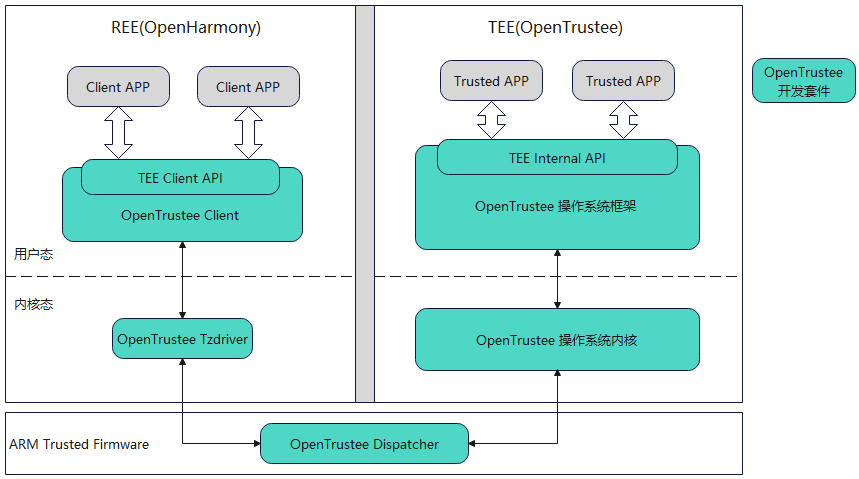
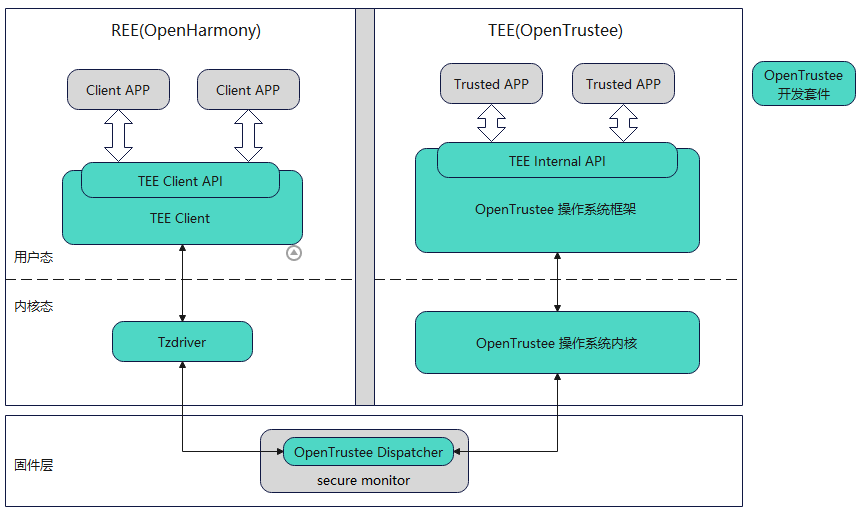
add opentrustee overview

diff --git a/docs/opentrustee-guidelines/overview-of-opentrustee.md b/docs/opentrustee-guidelines/overview-of-opentrustee.md
@@ -2,7 +2,7 @@
 
 ## 概述
 
-OpenTrustee是一个部署在可信执行环境（TEE）中的安全操作系统。ARM架构中的TrustZone技术通过CPU层面的硬件设计，支持创建安全的可信执行环境。基于ARM TrustZone技术，我们可以在设备上同时运行OpenHarmony和OpenTrustee两个系统，这两个系统彼此隔离。基于这种系统隔离带来的安全性，OpenTrustee可以为设备的机密数据提供保护。
+OpenTrustee提供了一个可信执行环境（TEE），运行在受硬件隔离的安全区域中，与常规操作系统如OpenHarmony同时运行但互相隔离，OpenTrustee比常规操作系统拥有更高的安全性，可以为设备上的机密数据提供保护。
 
 ## **应用场景**
 
@@ -37,28 +37,28 @@ OpenTrustee是一套完整的TEE解决方案，包含多个部件，系统架构
 
 - 部署在REE侧内核中的驱动，支持REE和TEE进行通信。
 
-#### 操作系统框架
+#### OpenTrustee 操作系统框架
 
 - 为TA提供符合GP TEE标准的TEE Internal API；
 - 提供TA运行管理、驱动运行管理等框架基础服务；
 - 提供安全存储、加解密等安全能力。
 
-#### 操作系统内核
+#### OpenTrustee 操作系统内核
 
 - ChCore微内核，提供IPC/进程管理/内存管理/调度/中断管理/REE和TEE切换等基础内核功能。
 
-#### 开发套件
+#### OpenTrustee 开发套件
 
-- 包括TA开发套件和驱动开发套件两部分，提供API头文件、编译框架、签名脚本、demo样例等，支持高效开发TA和驱动。
+- 提供了TA开发套件，包含TA API头文件、编译框架、签名脚本、demo样例等，支持高效开发TA。
 
-#### Dispatcher
+#### OpenTrustee Dispatcher
 
-- 部署在ATF中，在REE和TEE之间交互时完成两个世界上下文的切换。
+- 在REE和TEE之间交互时完成两个世界上下文的切换。
 
 ## 约束
 
 - 支持的系统类型：支持OpenHarmony定义的标准系统，暂不支持轻量系统和小型系统；
-- 对硬件的要求：CPU需要支持ARM TrustZone机制，安全内存至少需要28M；
+- 对硬件的要求：目前只支持具备ARM TrustZone机制的CPU，安全内存至少需要28M；
 
 ## 编码规范
 
